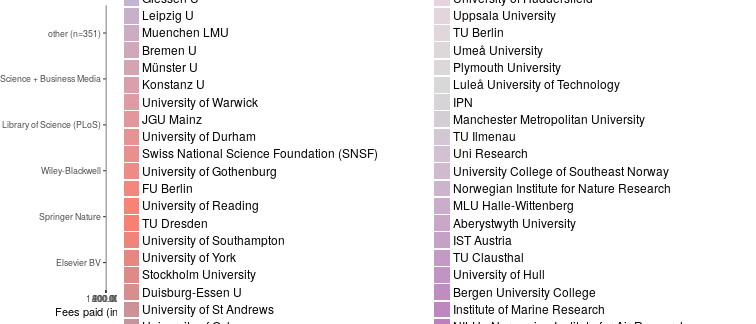
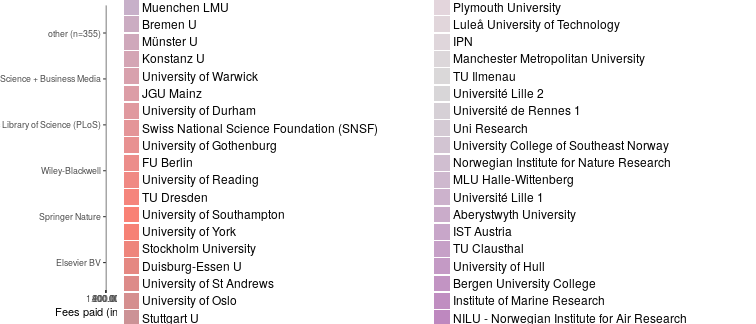
post: couperin first data

Changed region(s): [[0.578, 0.0, 0.9127, 1.0], [0.1217, 0.0, 0.5172, 1.0]]

diff --git a/about.md b/about.md
@@ -149,6 +149,21 @@ The data content covers APCs as paid for by our central budget for the Max Planc
 - University of Gothenburg
 - Uppsala University
 
+## Institutions from France
+
+The [Couperin consortium](https://couperin.org) aggregates data on APC expenditures made by institutions in France:
+
+- Aix-Marseille Université
+- Université de Bourgogne
+- Hospices Civils de Lyon
+- Institut national de recherche en informatique et en automatique (INRIA)
+- Institut national de la santé et de la recherche médicale (INSERM)
+- Université Lille 1
+- Université Lille 2
+- Université de Rennes 1
+- Université de Toulon
+- Université Pierre et Marie Curie (Paris VI)
+
 ## Participating Institutions from the United Kingdom:
 
 - [Wellcome Trust](https://wellcome.ac.uk/funding/managing-grant/open-access-policy)
@@ -226,13 +241,13 @@ Jisc Collections released data on APC payments made by UK higher education insti
 
 Information on both open access journal articles and open access publication of articles in toll-access journals ("hybrid") are provided.
 
-In total,  99 398 615 € for  52 210 articles were paid by the participating unviversities. Average  fee is 1 903.8 € and the median 1 707 €.
+In total,  100 571 873 € for  52 905 articles were paid by the participating unviversities. Average  fee is 1 901 € and the median 1 702 €.
 
 ### Open Access Journals
 
 
 
-At the moment, the dataset releases information on 30 477 articles in open access journals which charge publication fees. Total expenditure amounts to  45 302 429 €. Average  fee is 1 486.4 € and the median 1 415 €.
+At the moment, the dataset releases information on 31 054 articles in open access journals which charge publication fees. Total expenditure amounts to  46 206 693 €. Average  fee is 1 487.9 € and the median 1 413 €.
 
 View dataset on [GitHub](https://github.com/OpenAPC/openapc-de/blob/master/data/apc_de.csv).
 
@@ -240,6 +255,7 @@ View dataset on [GitHub](https://github.com/OpenAPC/openapc-de/blob/master/data/
 |                                                                | Articles| Fees paid in EURO| Mean Fee paid| Median|
 |:---------------------------------------------------------------|--------:|-----------------:|-------------:|------:|
 |Aberystwyth University                                          |        9|            18,176|         2,020|  1,569|
+|Aix-Marseille Université                                        |       63|            92,126|         1,462|  1,215|
 |Akershus University Hospital                                    |       11|            15,680|         1,425|  1,290|
 |Aston University                                                |       24|            47,259|         1,969|  1,654|
 |Bamberg U                                                       |       50|            56,375|         1,127|  1,266|
@@ -255,7 +271,7 @@ View dataset on [GitHub](https://github.com/OpenAPC/openapc-de/blob/master/data/
 |Cranfield University                                            |       10|            14,348|         1,435|  1,530|
 |Dalarna University College                                      |       27|            38,434|         1,423|  1,698|
 |Dortmund TU                                                     |       38|            39,184|         1,031|    962|
-|Duisburg-Essen U                                                |      236|           322,744|         1,368|  1,277|
+|Duisburg-Essen U                                                |      235|           320,066|         1,362|  1,276|
 |Erlangen Nuernberg U                                            |      707|         1,017,252|         1,439|  1,514|
 |Fraunhofer-Gesellschaft Publishing Fund                         |       42|            57,044|         1,358|  1,361|
 |Freiburg U                                                      |      623|           871,696|         1,399|  1,449|
@@ -274,10 +290,13 @@ View dataset on [GitHub](https://github.com/OpenAPC/openapc-de/blob/master/data/
 |Harstad University College                                      |        2|             2,024|         1,012|  1,012|
 |Harvard U                                                       |       94|            82,722|           880|    796|
 |Heidelberg U                                                    |      617|           913,967|         1,481|  1,606|
+|Hospices Civils de Lyon                                         |        4|             5,695|         1,424|  1,320|
 |HZDR                                                            |       83|           122,636|         1,478|  1,213|
-|Imperial College London                                         |      572|         1,064,200|         1,860|  1,595|
+|Imperial College London                                         |      573|         1,064,460|         1,858|  1,594|
 |INM - Leibniz-Institut für Neue Materialien                     |        5|             5,744|         1,149|  1,305|
 |Innlandet Hospital Trust                                        |        3|             5,174|         1,725|  1,917|
+|INRIA                                                           |       31|            46,138|         1,488|  1,288|
+|INSERM                                                          |      392|           644,693|         1,645|  1,298|
 |Institute of Cancer Research                                    |       20|            43,133|         2,157|  1,673|
 |Institute of Marine Research                                    |       14|            20,153|         1,440|  1,404|
 |IPN                                                             |        4|             3,909|           977|    479|
@@ -286,7 +305,7 @@ View dataset on [GitHub](https://github.com/OpenAPC/openapc-de/blob/master/data/
 |Karolinska Institutet                                           |        7|             4,371|           624|    755|
 |Kassel U                                                        |       78|            85,210|         1,092|  1,136|
 |Keele University                                                |       19|            31,431|         1,654|  1,644|
-|King's College London                                           |      198|           401,718|         2,029|  1,591|
+|King's College London                                           |      197|           398,725|         2,024|  1,588|
 |KIT                                                             |      674|           903,682|         1,341|  1,382|
 |Konstanz U                                                      |      345|           524,743|         1,521|  1,506|
 |KTH Royal Institute of Technology                               |      106|           129,263|         1,219|  1,072|
@@ -320,7 +339,7 @@ View dataset on [GitHub](https://github.com/OpenAPC/openapc-de/blob/master/data/
 |Norwegian University of Life Sciences                           |       53|            72,307|         1,364|  1,449|
 |Norwegian University of Science and Technology                  |      115|           162,119|         1,410|  1,420|
 |Oldenburg U                                                     |      177|           215,062|         1,215|  1,361|
-|OpenAIRE                                                        |      538|           780,991|         1,452|  1,413|
+|OpenAIRE                                                        |      537|           778,991|         1,451|  1,413|
 |Oslo and Akershus university college                            |       36|            45,728|         1,270|  1,252|
 |Oslo University Hospital                                        |      111|           149,777|         1,349|  1,392|
 |Osnabrück U                                                     |       65|            90,046|         1,385|  1,553|
@@ -352,26 +371,32 @@ View dataset on [GitHub](https://github.com/OpenAPC/openapc-de/blob/master/data/
 |TU Muenchen                                                     |      858|         1,147,525|         1,337|  1,462|
 |TU Wien                                                         |       45|            61,645|         1,370|  1,323|
 |Tuebingen U                                                     |      594|           814,355|         1,371|  1,386|
-|UCL                                                             |    1,645|         2,697,774|         1,640|  1,534|
+|UCL                                                             |    1,643|         2,695,082|         1,640|  1,534|
 |UFZ                                                             |       40|            42,186|         1,055|    979|
 |Ulm U                                                           |      191|           294,038|         1,539|  1,541|
 |Umeå University                                                 |        8|             6,104|           763|    724|
 |Uni Research                                                    |       19|            28,070|         1,477|  1,474|
 |Universitat de Barcelona                                        |      465|           443,659|           954|    897|
+|Université de Bourgogne                                         |        7|             9,568|         1,367|  1,285|
+|Université de Rennes 1                                          |       20|            26,569|         1,328|  1,202|
+|Université de Toulon                                            |        2|             5,150|         2,575|  2,575|
+|Université Lille 1                                              |       11|            15,099|         1,373|  1,266|
+|Université Lille 2                                              |       21|            29,150|         1,388|  1,256|
+|Université Pierre et Marie Curie (Paris VI)                     |       32|            50,846|         1,589|  1,396|
 |University College of Southeast Norway                          |       19|            19,107|         1,006|    907|
 |University of Aberdeen                                          |       26|            48,895|         1,881|  1,787|
 |University of Agder                                             |       62|            42,571|           687|    536|
-|University of Bath                                              |       34|            48,484|         1,426|  1,395|
+|University of Bath                                              |       35|            48,597|         1,388|  1,392|
 |University of Bergen                                            |      156|           242,308|         1,553|  1,549|
 |University of Birmingham                                        |      433|           749,069|         1,730|  1,680|
-|University of Bristol                                           |      198|           342,569|         1,730|  1,607|
+|University of Bristol                                           |      197|           338,408|         1,718|  1,601|
 |University of Calgary                                           |      884|           993,823|         1,124|  1,145|
-|University of Cambridge                                         |      527|         1,146,718|         2,176|  1,807|
+|University of Cambridge                                         |      526|         1,143,562|         2,174|  1,807|
 |University of Durham                                            |       50|            95,365|         1,907|  1,719|
 |University of Edinburgh                                         |      157|           268,393|         1,710|  1,632|
 |University of Exeter                                            |       59|           103,364|         1,752|  1,395|
 |University of Glasgow                                           |      144|           272,944|         1,895|  1,568|
-|University of Gothenburg                                        |      193|           295,543|         1,531|  1,406|
+|University of Gothenburg                                        |      192|           292,079|         1,521|  1,406|
 |University of Huddersfield                                      |        3|             3,452|         1,151|  1,192|
 |University of Hull                                              |        5|             7,548|         1,510|  1,635|
 |University of Leicester                                         |       50|            82,629|         1,653|  1,652|
@@ -406,7 +431,7 @@ View dataset on [GitHub](https://github.com/OpenAPC/openapc-de/blob/master/data/
 
 
 In many toll-access journals some of the articles are open access after a fee has been paid. This model is often called "hybrid open access".
-The dataset covers 21 733 hybrid open access articles. Total expenditure amounts to  54 096 186 €. Average  fee is 2 489.1 € and the median 2 446 €.
+The dataset covers 21 851 hybrid open access articles. Total expenditure amounts to  54 365 180 €. Average  fee is 2 488 € and the median 2 445 €.
 
 The following institutions have contributed its expenditures for hybrid open access.
 
@@ -414,6 +439,7 @@ The following institutions have contributed its expenditures for hybrid open acc
 |                                            | Articles| Fees paid in EURO| Mean Fee paid| Median|
 |:-------------------------------------------|--------:|-----------------:|-------------:|------:|
 |Aberystwyth University                      |        6|            16,115|         2,686|  2,775|
+|Aix-Marseille Université                    |       10|            22,809|         2,281|  2,397|
 |Aston University                            |       76|           164,750|         2,168|  2,174|
 |Bangor University                           |       39|           106,903|         2,741|  2,714|
 |Bergen University College                   |        1|               503|           503|    503|
@@ -422,7 +448,7 @@ The following institutions have contributed its expenditures for hybrid open acc
 |Cranfield University                        |       66|           186,639|         2,828|  2,901|
 |Dalarna University College                  |       13|            33,705|         2,593|  2,690|
 |Dortmund TU                                 |        1|             1,581|         1,581|  1,581|
-|Duisburg-Essen U                            |        8|            21,167|         2,646|  2,618|
+|Duisburg-Essen U                            |        9|            23,845|         2,649|  2,618|
 |Erlangen Nuernberg U                        |        1|             1,638|         1,638|  1,638|
 |FU Berlin                                   |        1|             1,500|         1,500|  1,500|
 |FWF - Austrian Science Fund                 |    3,775|         9,277,292|         2,458|  2,599|
@@ -432,16 +458,19 @@ The following institutions have contributed its expenditures for hybrid open acc
 |GIGA                                        |       13|            27,235|         2,095|  2,151|
 |Goldsmiths                                  |        4|            12,154|         3,039|  3,100|
 |Hannover U                                  |        4|             5,824|         1,456|  1,398|
+|Hospices Civils de Lyon                     |        3|             8,317|         2,772|  2,677|
 |HZDR                                        |        3|             5,405|         1,802|  1,755|
-|Imperial College London                     |      870|         2,345,319|         2,696|  2,648|
+|Imperial College London                     |      869|         2,345,060|         2,699|  2,648|
 |INM - Leibniz-Institut für Neue Materialien |        9|            27,020|         3,002|  3,213|
+|INRIA                                       |        4|             7,211|         1,803|  1,788|
+|INSERM                                      |       81|           174,612|         2,156|  2,090|
 |Institute of Cancer Research                |       67|           206,220|         3,078|  2,811|
 |IPN                                         |       22|            53,603|         2,437|  2,558|
 |IST Austria                                 |        2|             6,499|         3,249|  3,249|
 |JGU Mainz                                   |        1|             1,792|         1,792|  1,792|
 |Karolinska Institutet                       |       25|            38,269|         1,531|  1,473|
 |Keele University                            |       25|            65,045|         2,602|  2,644|
-|King's College London                       |      547|         1,479,691|         2,705|  2,640|
+|King's College London                       |      548|         1,482,684|         2,706|  2,641|
 |KIT                                         |        1|             2,000|         2,000|  2,000|
 |Konstanz U                                  |        3|             5,556|         1,852|  1,950|
 |KTH Royal Institute of Technology           |       30|            58,195|         1,940|  2,109|
@@ -457,6 +486,7 @@ The following institutions have contributed its expenditures for hybrid open acc
 |Milano U                                    |       28|            62,792|         2,243|  2,300|
 |MPG                                         |       10|             9,179|           918|    958|
 |Northumbria University                      |       30|            67,687|         2,256|  2,135|
+|OpenAIRE                                    |        1|             2,000|         2,000|  2,000|
 |Plymouth University                         |       18|            44,466|         2,470|  2,482|
 |Queen Mary, University of London            |      130|           296,514|         2,281|  2,024|
 |Queen's University Belfast                  |       34|            86,290|         2,538|  2,495|
@@ -469,20 +499,26 @@ The following institutions have contributed its expenditures for hybrid open acc
 |TiHo Hannover                               |        9|            16,412|         1,824|  1,595|
 |TU Chemnitz                                 |        1|               100|           100|    100|
 |TU Clausthal                                |        3|             7,082|         2,361|  2,500|
-|UCL                                         |    2,882|         6,375,210|         2,212|  1,999|
+|UCL                                         |    2,884|         6,377,902|         2,211|  1,997|
 |Ulm U                                       |       17|            35,219|         2,072|  2,319|
 |Umeå University                             |       22|            43,072|         1,958|  2,132|
+|Université de Bourgogne                     |        1|             1,950|         1,950|  1,950|
+|Université de Rennes 1                      |        1|             1,100|         1,100|  1,100|
+|Université de Toulon                        |        1|             1,378|         1,378|  1,378|
+|Université Lille 1                          |        5|            14,411|         2,882|  2,959|
+|Université Lille 2                          |        1|             3,977|         3,977|  3,977|
+|Université Pierre et Marie Curie (Paris VI) |        5|            12,458|         2,492|  2,275|
 |University of Aberdeen                      |       34|           101,418|         2,983|  2,809|
-|University of Bath                          |      147|           317,089|         2,157|  2,049|
+|University of Bath                          |      146|           316,976|         2,171|  2,052|
 |University of Birmingham                    |      571|         1,401,746|         2,455|  2,480|
-|University of Bristol                       |      557|         1,344,586|         2,414|  2,275|
+|University of Bristol                       |      558|         1,348,747|         2,417|  2,275|
 |University of Calgary                       |       45|            91,902|         2,042|  2,184|
-|University of Cambridge                     |    1,517|         4,237,627|         2,793|  2,683|
+|University of Cambridge                     |    1,518|         4,240,782|         2,794|  2,683|
 |University of Durham                        |      265|           563,728|         2,127|  2,091|
 |University of Edinburgh                     |      299|           793,402|         2,654|  2,618|
 |University of Exeter                        |      101|           269,157|         2,665|  2,669|
 |University of Glasgow                       |      448|         1,120,600|         2,501|  2,467|
-|University of Gothenburg                    |      105|           258,773|         2,465|  2,750|
+|University of Gothenburg                    |      106|           262,238|         2,474|  2,755|
 |University of Huddersfield                  |       29|            36,984|         1,275|    968|
 |University of Hull                          |       10|            26,794|         2,679|  2,640|
 |University of Leicester                     |      110|           277,033|         2,518|  2,326|
@@ -580,7 +616,7 @@ For data enrichment, sample visualisations and explorations we build on the work
 
 ## Contributors
 
-Jens Harald Aasheim, Benjamin Ahlborn, Chelsea Ambler, Magdalena Andrae, Jochen Apel, Hans-Georg Becker, Roland Bertelmann, Daniel Beucke, Peter Blume, Ute Blumtritt, Sabine Boccalini, Kim Braun, Christoph Broschinski, Dorothea Busjahn, Pablo de Castro, Roberto Cozatl, Amanda Cullin, Patrick Danowski, Gernot Deinzer, Julia Dickel, Andrea Dorner, Stefan Drößler, Karin Eckert, Carsten Elsner, Clemens Engelhardt, Inken Feldsien-Sudhaus, Fabian Franke, Claudia Frick, Paola Galimberti, Agnes Geißelmann, Kai Karin Geschuhn, Steffi Grimm, Christian Gutknecht, Uli Hahn, Kristina Hanig, Dominik Hell, Ulrich Herb, Stephanie Herzog, Ute Holzwarth, Christie Hurrell, Doris Jaeger, Najko Jahn, Alexandra Jobmann, Andreas Kennecke, Robert Kiley, Gerrit Kuehle, Ignasi Labastida i Juan, Gerald Langhanke, Stuart Lawson, Kathrin Lucht-Roussel, Jan Lüth, Frank Lützenkirchen, Anna Marini, Anja Oberländer, Vitali Peil, Dirk Pieper, Tobias Pohlmann, Markus Putnings, Annette Scheiner, Michael Schlachter, Birgit Schlegel, Stefanie Seeh, Adriana Sikora, Susanne Stemmler, Matti Stöhr, Andrée Rathemacher, Edith Reschke, Katharina Rieck, Florian Ruckelshausen, Ilka Rudolf, Marco Tullney, Astrid Vieler, Viola Voß, Marco Winkler, Sabine Witt, Philip Young
+Jens Harald Aasheim, Benjamin Ahlborn, Chelsea Ambler, Magdalena Andrae, Jochen Apel, Hans-Georg Becker, Roland Bertelmann, Daniel Beucke, Peter Blume, Ute Blumtritt, Sabine Boccalini, Kim Braun, Christoph Broschinski, Dorothea Busjahn, Pablo de Castro, Roberto Cozatl, Amanda Cullin, Patrick Danowski, Gernot Deinzer, Julia Dickel, Andrea Dorner, Stefan Drößler, Karin Eckert, Carsten Elsner, Clemens Engelhardt, Inken Feldsien-Sudhaus, Fabian Franke, Claudia Frick, Paola Galimberti, Agnes Geißelmann, Kai Karin Geschuhn, Steffi Grimm, Christian Gutknecht, Uli Hahn, Kristina Hanig, Dominik Hell, Ulrich Herb, Stephanie Herzog, Ute Holzwarth, Christie Hurrell, Doris Jaeger, Najko Jahn, Alexandra Jobmann, Andreas Kennecke, Robert Kiley, Gerrit Kuehle, Ignasi Labastida i Juan, Gerald Langhanke, Stuart Lawson, Kathrin Lucht-Roussel, Jan Lüth, Frank Lützenkirchen, Anna Marini, Anja Oberländer, Vitali Peil, Dirk Pieper, Tobias Pohlmann, Thomas Porquet, Markus Putnings, Annette Scheiner, Michael Schlachter, Birgit Schlegel, Stefanie Seeh, Adriana Sikora, Susanne Stemmler, Matti Stöhr, Andrée Rathemacher, Edith Reschke, Katharina Rieck, Florian Ruckelshausen, Ilka Rudolf, Marco Tullney, Astrid Vieler, Viola Voß, Marco Winkler, Sabine Witt, Philip Young
 
 ## Contact
 

diff --git a/_posts/2018-06-08-couperin.md b/_posts/2018-06-08-couperin.md
@@ -1,0 +1,105 @@
+---
+layout:     post
+author:     Christoph Broschinski
+author_lnk: https://github.com/cbroschinski
+title:      Couperin.org provides first APC data for France
+date:       2018-06-08 09:00:00
+summary:    
+categories: [general, openAPC]
+comments: true
+---
+
+
+
+
+The [Couperin consortium](https://couperin.org) collects data on APC expenditures from universities and other research institutions in France. A first batch of data has now been kindly made available to OpenAPC, more is to follow soon.
+
+Contact Person for Couperin is [Thomas Porquet](mailto:thomas.porquet@couperin.org).
+
+## Cost data
+
+
+
+The initial data set provided by Couperin covers publication fees for 695 articles published in 2015. Total expenditure amounts to 1 173 258€ and the average fee is 1 688€.
+
+The data originates from these 10 institutions (Have a look at the [treemaps site](https://treemaps.intact-project.org) for institutional details):
+
+- Aix-Marseille Université
+- Université de Bourgogne
+- Hospices Civils de Lyon
+- Institut national de recherche en informatique et en automatique (INRIA)
+- Institut national de la santé et de la recherche médicale (INSERM)
+- Université Lille 1
+- Université Lille 2
+- Université de Rennes 1
+- Université de Toulon
+- Université Pierre et Marie Curie (Paris VI)
+
+
+|                                                              | Articles| Fees paid in EURO| Mean Fee paid|
+|:-------------------------------------------------------------|--------:|-----------------:|-------------:|
+|Public Library of Science (PLoS)                              |      157|            208975|          1331|
+|Springer Nature                                               |      157|            298725|          1903|
+|Frontiers Media SA                                            |       84|             94433|          1124|
+|Elsevier BV                                                   |       53|            118950|          2244|
+|Impact Journals, LLC                                          |       34|             82237|          2419|
+|Wiley-Blackwell                                               |       30|             61742|          2058|
+|Oxford University Press (OUP)                                 |       20|             43867|          2193|
+|Hindawi Publishing Corporation                                |       15|             19343|          1290|
+|MDPI AG                                                       |       15|             17380|          1159|
+|Ovid Technologies (Wolters Kluwer Health)                     |       15|             24828|          1655|
+|BMJ                                                           |       13|             35270|          2713|
+|Informa UK Limited                                            |       12|             10846|           904|
+|IOP Publishing                                                |       10|             16440|          1644|
+|OMICS Publishing Group                                        |        7|             10552|          1507|
+|American Society for Clinical Investigation                   |        6|             21509|          3585|
+|American Meteorological Society                               |        4|              9588|          2397|
+|EMBO                                                          |        4|             11850|          2962|
+|IOS Press                                                     |        4|              4980|          1245|
+|Optical Society of America (OSA)                              |        4|              8234|          2058|
+|American Society for Microbiology                             |        3|              6027|          2009|
+|Copernicus GmbH                                               |        3|              4944|          1648|
+|Ferrata Storti Foundation (Haematologica)                     |        3|              4500|          1500|
+|Institute of Electrical & Electronics Engineers (IEEE)        |        3|              3638|          1213|
+|MyJove Corporation                                            |        3|              9156|          3052|
+|American Society for Biochemistry & Molecular Biology (ASBMB) |        2|              2485|          1242|
+|e-Century Publishing Corporation                              |        2|              2464|          1232|
+|Ivyspring International Publisher                             |        2|              2375|          1187|
+|Scientific Research Publishing, Inc,                          |        2|              1725|           862|
+|Society for Neuroscience                                      |        2|              2816|          1408|
+|Spandidos Publications                                        |        2|              3153|          1576|
+|The Company of Biologists                                     |        2|              5500|          2750|
+|AIP Publishing                                                |        1|              1215|          1215|
+|American Association for the Advancement of Science (AAAS)    |        1|              1365|          1365|
+|American Physical Society (APS)                               |        1|              1553|          1553|
+|Baishideng Publishing Group Inc.                              |        1|              1700|          1700|
+|BioScientifica                                                |        1|               984|           984|
+|Cambridge University Press (CUP)                              |        1|              1000|          1000|
+|Center for Advanced Research                                  |        1|              3150|          3150|
+|Dove Medical Press Ltd.                                       |        1|              1843|          1843|
+|EDP Sciences                                                  |        1|               900|           900|
+|EMW Publishing                                                |        1|               400|           400|
+|JMIR Publications Inc.                                        |        1|              1686|          1686|
+|Journal of Infection in Developing Countries                  |        1|               202|           202|
+|Jscholar                                                      |        1|               752|           752|
+|Mary Ann Liebert Inc                                          |        1|              1068|          1068|
+|Medknow                                                       |        1|               495|           495|
+|Microbiology Society                                          |        1|               416|           416|
+|Peertechz Publications Private Limited                        |        1|              1549|          1549|
+|Portland Press Ltd.                                           |        1|               775|           775|
+|Proceedings of the National Academy of Sciences               |        1|              2350|          2350|
+|SAGE Publications                                             |        1|               335|           335|
+|Science Publishing Group                                      |        1|               247|           247|
+|The Endocrine Society                                         |        1|               741|           741|
+
+## Overview
+
+A detailed analysis of the contributed data provides the following overview:
+
+### Fees paid per publisher (in EURO)
+
+![plot of chunk tree_couperin_2018_06_08_full](/figure/tree_couperin_2018_06_08_full-1.png)
+
+###  Average costs per publisher (in EURO)
+
+![plot of chunk box_couperin_2018_06_08_publisher_full](/figure/box_couperin_2018_06_08_publisher_full-1.png)
